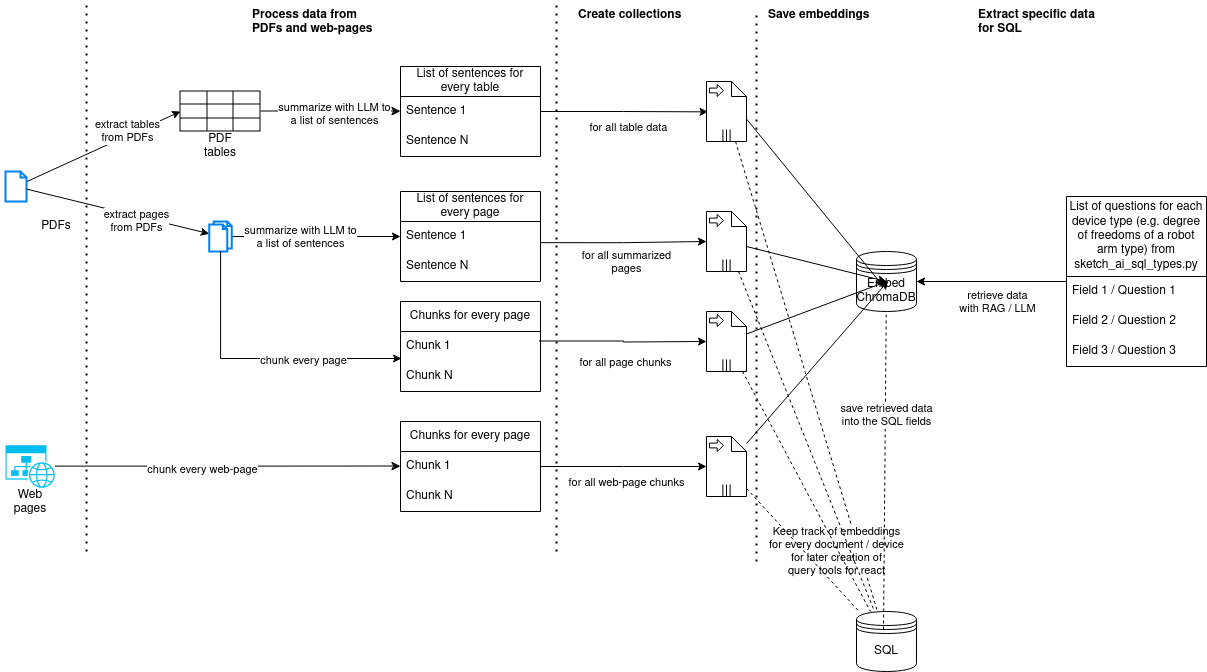
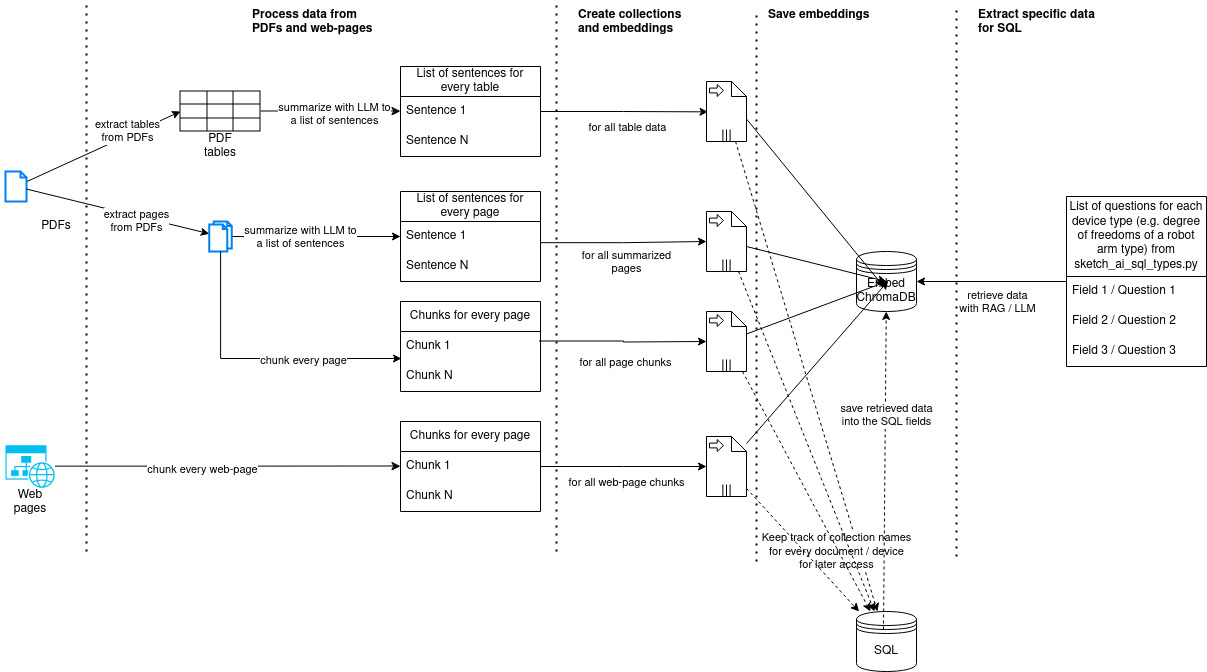
update readme

Changed region(s): [[0.6131, 0.7812, 0.7664, 0.9062], [0.4598, 0.0312, 0.5518, 0.0625], [0.4905, 0.1875, 0.5518, 0.2188]]

diff --git a/README.md b/README.md
@@ -25,6 +25,29 @@ The loading process can be summarized with this diagram:
 
 ![load_data](images/load_data.jpg)
 
+#### Data Preprocessing
+
+PDFs will be preprocessed in the following way:
+- The tables will be extracted.
+    - For each table, an LLM will be asked to summarize the table data into a list of sentences.
+- Each page will be summarized by LLM into a list of sentences.
+- Each page will be chunked.
+- Each web page will be downloaded and chunked.
+
+#### Embed and Store 
+
+The lists of sentences and chunks will be embedded and stored into collections on ChromaDB.
+For each type - table summary, page summary, page chunks, web page chunks - there is an extra collection.
+
+#### Retrieve Device-Specific Data for SQL
+
+To trace the collections belonging to a specific device, the names of the collections are stored next to the device in SQL (and will be used later).
+
+Additionally, device-dependent information will be extracted to be stored in an SQL database, e.g., the degree of freedom for a robot arm.
+The information to be extracted is matched to the columns of a device type (e.g., robot arm). 
+The fields for each SQL table and the questions for retrieval are in `sketch_ai_sql_types.py`.
+The device type is defined in `hw.json`.
+
 
 ### Chat with Data
 
